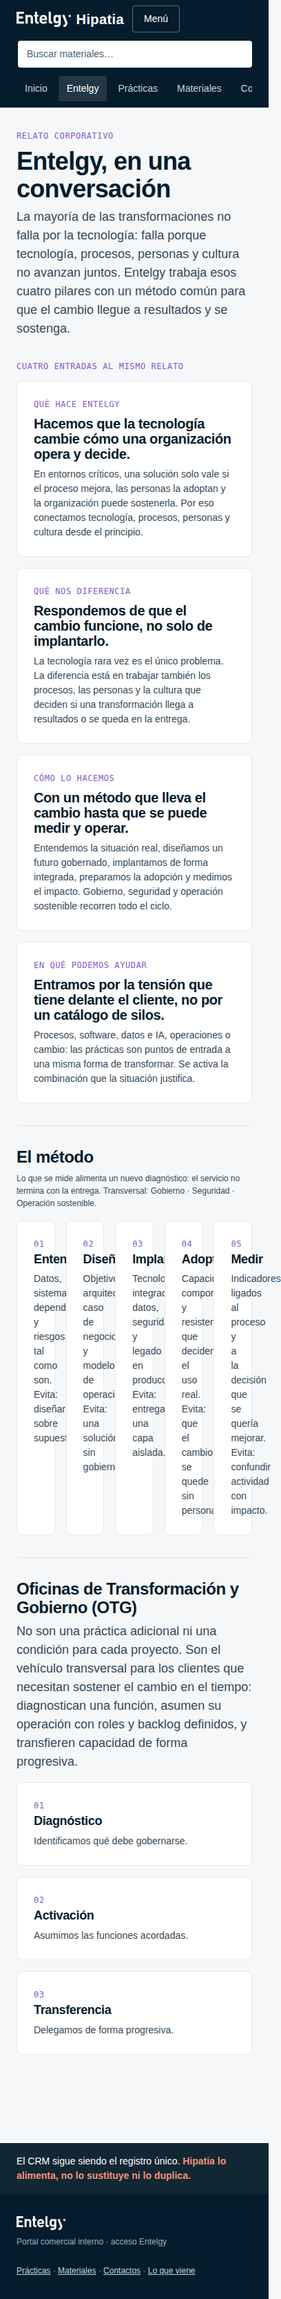
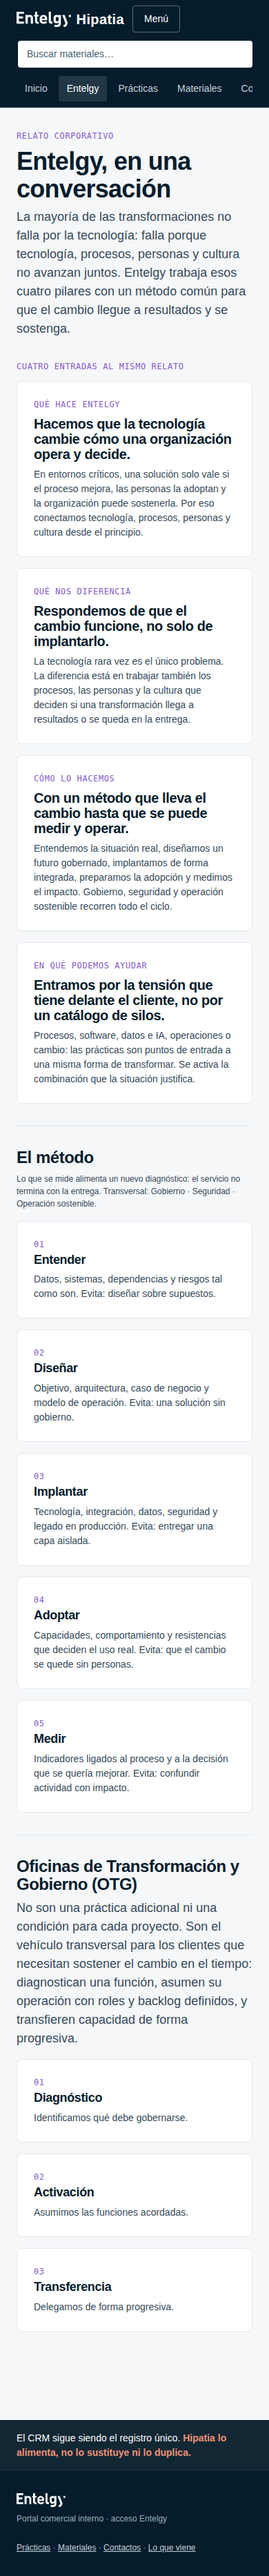
v3: «El método» de /entelgy también se apila en móvil
La auditoría visual a 390 px encontró que la rejilla de «El método» de /entelgy seguía en
cinco columnas fijas (una palabra por línea), el mismo caso que «La oferta» de la revisión
11b. Usa ahora la clase .grid-5 (5 → 2 → 1 columnas). Único grid fijo que quedaba; el resto
ya eran responsive. Se elimina también un PNG obsoleto de la ruta /practicas/data-ai/
(renombrada en la revisión 5) que medir.js no limpiaba.

Claude-Session: https://claude.ai/code/session_01MVvbucM9Dr31EjbaQCaUFZ

Changed region(s): [[0.0, 0.0, 1.0, 1.0]]

diff --git a/public/entelgy/index.html b/public/entelgy/index.html
@@ -38,7 +38,7 @@
 
     <section class="section"><h2 style="font-size:var(--font-size-2xl);margin-bottom:var(--space-2)">El método</h2>
       <p class="footer-note" style="margin-bottom:var(--space-4)">Lo que se mide alimenta un nuevo diagnóstico: el servicio no termina con la entrega. Transversal: Gobierno · Seguridad · Operación sostenible.</p>
-      <div class="grid" style="grid-template-columns:repeat(5,minmax(0,1fr))"><article class="card"><p class="eyebrow">01</p><h4 style="font-size:var(--font-size-lg);margin:var(--space-1) 0 var(--space-2)">Entender</h4><p style="font-size:var(--font-size-sm);color:var(--color-text-secondary)">Datos, sistemas, dependencias y riesgos tal como son. Evita: diseñar sobre supuestos.</p></article><article class="card"><p class="eyebrow">02</p><h4 style="font-size:var(--font-size-lg);margin:var(--space-1) 0 var(--space-2)">Diseñar</h4><p style="font-size:var(--font-size-sm);color:var(--color-text-secondary)">Objetivo, arquitectura, caso de negocio y modelo de operación. Evita: una solución sin gobierno.</p></article><article class="card"><p class="eyebrow">03</p><h4 style="font-size:var(--font-size-lg);margin:var(--space-1) 0 var(--space-2)">Implantar</h4><p style="font-size:var(--font-size-sm);color:var(--color-text-secondary)">Tecnología, integración, datos, seguridad y legado en producción. Evita: entregar una capa aislada.</p></article><article class="card"><p class="eyebrow">04</p><h4 style="font-size:var(--font-size-lg);margin:var(--space-1) 0 var(--space-2)">Adoptar</h4><p style="font-size:var(--font-size-sm);color:var(--color-text-secondary)">Capacidades, comportamiento y resistencias que deciden el uso real. Evita: que el cambio se quede sin personas.</p></article><article class="card"><p class="eyebrow">05</p><h4 style="font-size:var(--font-size-lg);margin:var(--space-1) 0 var(--space-2)">Medir</h4><p style="font-size:var(--font-size-sm);color:var(--color-text-secondary)">Indicadores ligados al proceso y a la decisión que se quería mejorar. Evita: confundir actividad con impacto.</p></article></div></section>
+      <div class="grid grid-5"><article class="card"><p class="eyebrow">01</p><h4 style="font-size:var(--font-size-lg);margin:var(--space-1) 0 var(--space-2)">Entender</h4><p style="font-size:var(--font-size-sm);color:var(--color-text-secondary)">Datos, sistemas, dependencias y riesgos tal como son. Evita: diseñar sobre supuestos.</p></article><article class="card"><p class="eyebrow">02</p><h4 style="font-size:var(--font-size-lg);margin:var(--space-1) 0 var(--space-2)">Diseñar</h4><p style="font-size:var(--font-size-sm);color:var(--color-text-secondary)">Objetivo, arquitectura, caso de negocio y modelo de operación. Evita: una solución sin gobierno.</p></article><article class="card"><p class="eyebrow">03</p><h4 style="font-size:var(--font-size-lg);margin:var(--space-1) 0 var(--space-2)">Implantar</h4><p style="font-size:var(--font-size-sm);color:var(--color-text-secondary)">Tecnología, integración, datos, seguridad y legado en producción. Evita: entregar una capa aislada.</p></article><article class="card"><p class="eyebrow">04</p><h4 style="font-size:var(--font-size-lg);margin:var(--space-1) 0 var(--space-2)">Adoptar</h4><p style="font-size:var(--font-size-sm);color:var(--color-text-secondary)">Capacidades, comportamiento y resistencias que deciden el uso real. Evita: que el cambio se quede sin personas.</p></article><article class="card"><p class="eyebrow">05</p><h4 style="font-size:var(--font-size-lg);margin:var(--space-1) 0 var(--space-2)">Medir</h4><p style="font-size:var(--font-size-sm);color:var(--color-text-secondary)">Indicadores ligados al proceso y a la decisión que se quería mejorar. Evita: confundir actividad con impacto.</p></article></div></section>
 
     <section class="section"><h2 style="font-size:var(--font-size-2xl)">Oficinas de Transformación y Gobierno (OTG)</h2><p class="lede" style="margin:var(--space-2) 0 var(--space-4)">No son una práctica adicional ni una condición para cada proyecto. Son el vehículo transversal para los clientes que necesitan sostener el cambio en el tiempo: diagnostican una función, asumen su operación con roles y backlog definidos, y transfieren capacidad de forma progresiva.</p><div class="grid grid-3"><article class="card"><p class="eyebrow">01</p><h4 style="font-size:var(--font-size-lg);margin:var(--space-1) 0 var(--space-2)">Diagnóstico</h4><p style="font-size:var(--font-size-sm);color:var(--color-text-secondary)">Identificamos qué debe gobernarse.</p></article><article class="card"><p class="eyebrow">02</p><h4 style="font-size:var(--font-size-lg);margin:var(--space-1) 0 var(--space-2)">Activación</h4><p style="font-size:var(--font-size-sm);color:var(--color-text-secondary)">Asumimos las funciones acordadas.</p></article><article class="card"><p class="eyebrow">03</p><h4 style="font-size:var(--font-size-lg);margin:var(--space-1) 0 var(--space-2)">Transferencia</h4><p style="font-size:var(--font-size-sm);color:var(--color-text-secondary)">Delegamos de forma progresiva.</p></article></div></section>
   </div></section>

diff --git a/build.js b/build.js
@@ -561,7 +561,7 @@ function entelgyPage(corp) {
 
     <section class="section"><h2 style="font-size:var(--font-size-2xl);margin-bottom:var(--space-2)">El método</h2>
       <p class="footer-note" style="margin-bottom:var(--space-4)">${esc(r.metodo && r.metodo.nota || "")} Transversal: ${esc((r.metodo && r.metodo.transversal || []).join(" · "))}.</p>
-      <div class="grid" style="grid-template-columns:repeat(5,minmax(0,1fr))">${metodo}</div></section>
+      <div class="grid grid-5">${metodo}</div></section>
 
     ${otg}
   </div></section>`;
